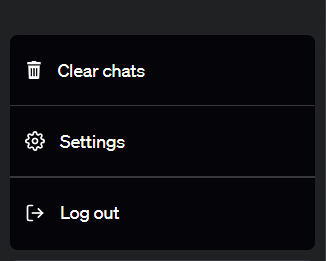
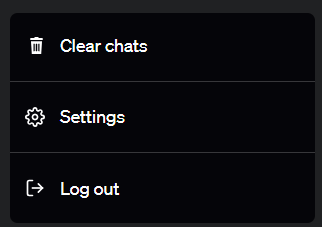
Style changes

diff --git a/script.user.js b/script.user.js
@@ -38,6 +38,10 @@
 .is-awaiting-confirm:hover {
     background-color: #B91C1C;
 }
+
+#trash-bin-svg {
+    margin-left: 2px;
+}
 `;
     GM_addStyle(CSS);
     await chatgpt.isLoaded();
@@ -53,6 +57,7 @@
     svg.setAttribute('height', '1em');
     svg.setAttribute('viewBox', '0 0 408.483 408.483');
     svg.setAttribute('fill', 'currentColor');
+    svg.setAttribute('id', 'trash-bin-svg');
 
     const g = document.createElementNS('http://www.w3.org/2000/svg', 'g');
     const innerG = document.createElementNS('http://www.w3.org/2000/svg', 'g');
@@ -94,7 +99,6 @@
             if (navLink.textContent.match(/.*Settings/)) {
                 separator = navLink.nextSibling.cloneNode(true);
                 clearButton.setAttribute('class', navLink.classList);
-                navLink.parentNode.style.margin = '2px 0'; // add v-margins to ensure consistency across all inserted buttons
                 break;
             }
 
